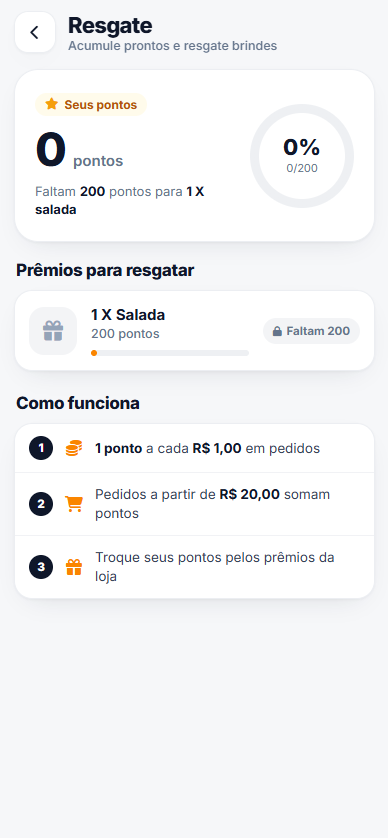
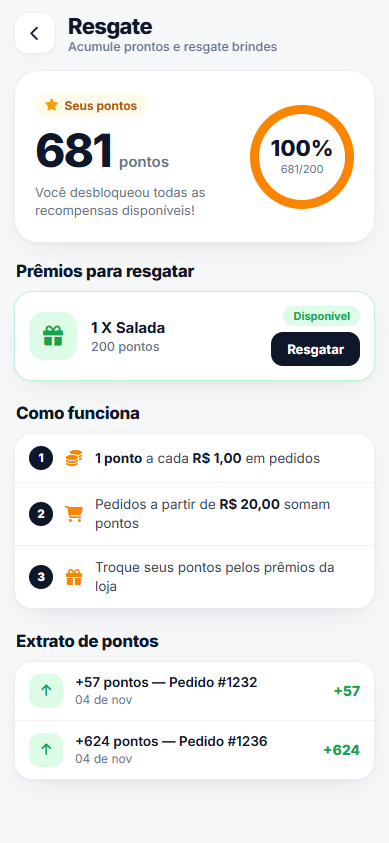
Mostra as duas telas do programa de fidelidade
O card alterna entre pontos acumulados e prêmio pronto para usar, com
selo de etapa, e lista resgate e extrato de pontos nos detalhes.

diff --git a/landing/index.html b/landing/index.html
@@ -870,8 +870,12 @@
       <article class="card reveal">
         <div class="media">
           <div class="phone">
-            <div class="phone-screen"><img src="imagens/cliente/temaclaro/programadefidelidade.png" alt="Programa de fidelidade com pontos e prêmios" loading="lazy" data-zoom></div>
+            <div class="phone-screen" data-cycle="2800" data-labels="Pontos acumulados|Prêmio pronto para usar">
+              <img class="on" src="imagens/cliente/temaclaro/programadefidelidade.png" alt="Programa de fidelidade com pontos acumulados e prêmio disponível" loading="lazy" data-zoom>
+              <img src="imagens/cliente/temaclaro/programadefidelidade2.png" alt="Prêmio resgatado e pronto para usar no próximo pedido" loading="lazy" data-zoom>
+            </div>
           </div>
+          <span class="status-chip" aria-hidden="true">Pontos acumulados</span>
         </div>
         <div class="card-body">
           <div class="card-title"><svg class="i"><use href="#i-star"/></svg><h3>Programa de fidelidade</h3></div>
@@ -883,6 +887,8 @@
               <li><svg class="i"><use href="#i-check"/></svg>Valor mínimo de pedido para somar pontos</li>
               <li><svg class="i"><use href="#i-check"/></svg>Prêmios definidos pela loja</li>
               <li><svg class="i"><use href="#i-check"/></svg>Cliente acompanha o saldo e quanto falta para o próximo prêmio</li>
+              <li><svg class="i"><use href="#i-check"/></svg>Resgate com um toque e uso do prêmio no próximo pedido</li>
+              <li><svg class="i"><use href="#i-check"/></svg>Extrato de pontos ganhos e resgatados</li>
             </ul>
           </details>
         </div>
